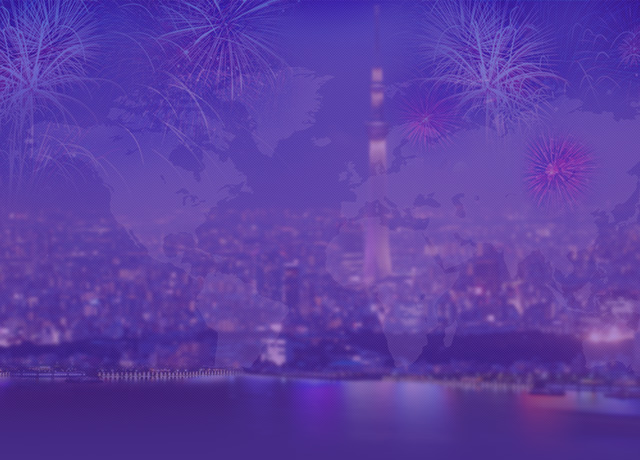
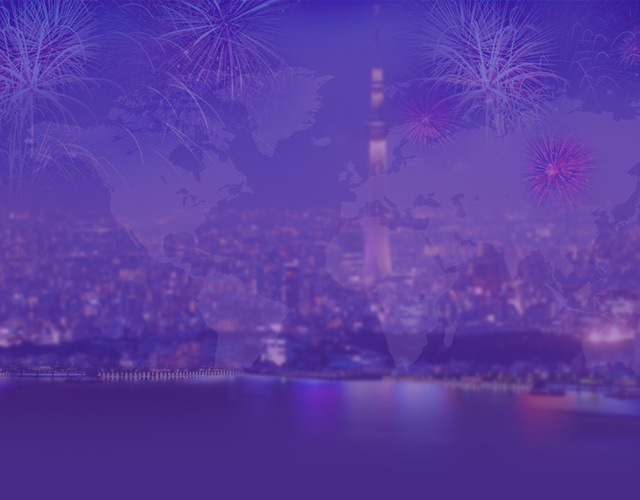
h5

diff --git a/app/static/html/japan.html b/app/static/html/japan.html
@@ -1,1 +1,1 @@
-<!DOCTYPE html><html lang="en"><head><meta charset="UTF-8"><meta content="target-densitydpi=device-dpi,width=640" name="viewport"><script type="text/javascript" src="../js/mobile-util.js"></script><title>日本馆</title><link rel="stylesheet" href="../css/common.css"><link rel="stylesheet" href="../css/japan.css"></head><body><header><h1>全球免税海外购</h1><h2>让你不出国门享受国外当地价8折</h2><h3>全球正品 值得信赖</h3></header><section class="mjapan-wp"><!-- 馆列表 --><ul class="mjapan-list clearfix"><li class="open"><img src="../img/japan/open-01.jpg"><div class="mjapan-mask"><h2>日本馆</h2><p>8月8日开业盛典</p></div></li><li><img src="../img/japan/open-02.jpg"><div class="mjapan-mask"><h2>澳新馆</h2><p>敬请期待</p></div></li><li><img src="../img/japan/open-03.jpg"><div class="mjapan-mask"><h2>意大利馆</h2><p>敬请期待</p></div></li></ul><!-- 馆列表 --><!-- 视频列表 --><ul class="mjapan-video-list"><li style="display:block;"><img src="../img/japan/video-demo.jpg" /><div class="mjapan-mask"><a class="japan-video-list-play"><i>播放</i><br/>查看视频</a></div><div class="mjapan-video-box"><!-- 这里放视频 --></div></li><li><img src="../img/japan/video-demo.jpg" /><div class="mjapan-mask"><a class="japan-video-list-play"><i>播放</i><br/>查看视频</a></div><div class="mjapan-video-box"><!-- 这里放视频 --></div></li><li><img src="../img/japan/video-demo.jpg" /><div class="mjapan-mask"><a class="japan-video-list-play"><i>播放</i><br/>查看视频</a></div><div class="mjapan-video-box"><!-- 这里放视频 --></div></li><li><img src="../img/japan/video-demo.jpg" /><div class="mjapan-mask"><a class="japan-video-list-play"><i>播放</i><br/>查看视频</a></div><div class="mjapan-video-box"><!-- 这里放视频 --></div></li></ul><div class="mjapan-video-pic"><a href="" class="mjapan-before">向前</a><div class="mjapan-video-pic-list"><ul class="clearfix"><li class="active"><img src="../img/japan/video-pic-demo.jpg"></li><li><img src="../img/japan/video-pic-demo.jpg"></li><li><img src="../img/japan/video-pic-demo.jpg"></li><li><img src="../img/japan/video-pic-demo.jpg"></li><li><img src="../img/japan/video-pic-demo.jpg"></li></ul></div><a href="" class="mjapan-after">向后</a></div><!-- 视频列表 --><!-- 日本馆简介 --><div class="mjapan-intro-text"><div class="mjapan-intro-text-inner"><div class="mjapan-intro-text-title"><h2>顺丰海淘携手日本领事馆</h2><p>SFHT&Japanese Consulate</p></div><div class="mjapan-intro-text-ct"><p>为你带来日本国宝级的必买商品</p><p class="bg">正品授权，海外自采</p><p>原生态直邮免税</p></div><span class="mjapan-flag"></span></div></div><!-- 日本馆简介 --><img src="../img/japan/banner02.jpg" class="banner02"><!-- 单品推荐 --><div class="mjapan-goods-box"><h2 class="title"><span class="text-icon">日本国宝级 单品推荐</span></h2><ul class="mjapan-goods-list clearfix"><li><img src="../img/japan/demo.jpg" alt="" width="204" height="284" /><div class="mjapan-goods-item"><div class="mjapan-goods-item-title">	<h2>液体防水创可贴</h2><h3 class="pink">日本人都在使用 非常好用</h3></div><p class="item">小林制药SEKAM CARE 液体创可贴止血绊创膏保护膜</p><div class="mjapan-price">促销价<span class="pink"><em>&yen;</em>59</span><del>参考价：140元</del></div><button class="mjapan-button">立即抢购</button></div></li><li><img src="../img/japan/demo.jpg" alt="" width="204" height="284" /><div class="mjapan-goods-item"><div class="mjapan-goods-item-title">	<h2>液体防水创可贴</h2><h3 class="pink">日本人都在使用 非常好用</h3></div><p class="item">小林制药SEKAM CARE 液体创可贴止血绊创膏保护膜</p><div class="mjapan-price">促销价<span class="pink"><em>&yen;</em>59</span><del>参考价：140元</del></div><button class="mjapan-button">立即抢购</button></div></li><li><img src="../img/japan/demo.jpg" alt="" width="204" height="284" /><div class="mjapan-goods-item"><div class="mjapan-goods-item-title">	<h2>液体防水创可贴</h2><h3 class="pink">日本人都在使用 非常好用</h3></div><p class="item">小林制药SEKAM CARE 液体创可贴止血绊创膏保护膜</p><div class="mjapan-price">促销价<span class="pink"><em>&yen;</em>59</span><del>参考价：140元</del></div><button class="mjapan-button">立即抢购</button></div></li><li><img src="../img/japan/demo.jpg" alt="" width="204" height="284" /><div class="mjapan-goods-item"><div class="mjapan-goods-item-title">	<h2>液体防水创可贴</h2><h3 class="pink">日本人都在使用 非常好用</h3></div><p class="item">小林制药SEKAM CARE 液体创可贴止血绊创膏保护膜</p><div class="mjapan-price">促销价<span class="pink"><em>&yen;</em>59</span><del>参考价：140元</del></div><button class="mjapan-button">立即抢购</button></div></li></ul></div><!-- 单品推荐 --><!-- 活动规则 --><div class="mjapan-active-rule"><h2><span>活动规则</span></h2><ol class="japan-active-rule-list"><li><span class="num">1.</span>【活动时间】2015-8-5 10:00:00 - 2015-8-31 23:59:59</li><li><span class="num">2.</span>99元减30元（不封顶），是指订单金额满99元购物车会立即减30元，并且根据订单金额可以累计立减。</li><li><span class="num">3.</span>满300送3000，是指一个账户一次购物订单支付满300元，可以返3000积分，订单配送成功客户确认收货后，系统自动会把3000积分返到你的账户中，100积分=1元，3000积分相当于30元，不可以兑现，可以直接购物抵用。</li><li><span class="num">4.</span>积分的使用详细说明请到在账户的个人中心中查看</li><li><span class="num">5.</span>折扣商品数量有限先到先得；</li><li><span class="num">6.</span>顺丰海淘可在法律法规允许范围内对本次活动规则进行解释。</li></ol></div><!-- 活动规则 --></section></body></html>
+<!DOCTYPE html><html lang="en"><head><meta charset="UTF-8"><meta content="target-densitydpi=device-dpi,width=640" name="viewport"><script type="text/javascript" src="../js/mobile-util.js"></script><title>日本馆</title><link rel="stylesheet" href="../css/common.css"><link rel="stylesheet" href="../css/japan.css"></head><body><header><h1>全球免税海外购</h1><h2>让你不出国门享受国外当地价8折</h2><h3>全球正品 值得信赖</h3></header><section class="mjapan-wp"><!-- 馆列表 --><ul class="mjapan-list clearfix"><li class="open"><img src="../img/japan/open-01.jpg"><div class="mjapan-mask"><h2>日本馆</h2><p>8月8日开业盛典</p></div></li><li><img src="../img/japan/open-02.jpg"><div class="mjapan-mask"><h2>澳新馆</h2><p>敬请期待</p></div></li><li><img src="../img/japan/open-03.jpg"><div class="mjapan-mask"><h2>意大利馆</h2><p>敬请期待</p></div></li></ul><!-- 馆列表 --><!-- 视频列表 --><ul class="mjapan-video-list"><li style="display:block;"><img src="../img/japan/video-demo.jpg" /><div class="mjapan-mask"><a class="japan-video-list-play"><i>播放</i><br/>查看视频</a></div><div class="mjapan-video-box"><!-- 这里放视频 --></div></li><li><img src="../img/japan/video-demo.jpg" /><div class="mjapan-mask"><a class="japan-video-list-play"><i>播放</i><br/>查看视频</a></div><div class="mjapan-video-box"><!-- 这里放视频 --></div></li><li><img src="../img/japan/video-demo.jpg" /><div class="mjapan-mask"><a class="japan-video-list-play"><i>播放</i><br/>查看视频</a></div><div class="mjapan-video-box"><!-- 这里放视频 --></div></li><li><img src="../img/japan/video-demo.jpg" /><div class="mjapan-mask"><a class="japan-video-list-play"><i>播放</i><br/>查看视频</a></div><div class="mjapan-video-box"><!-- 这里放视频 --></div></li></ul><div class="mjapan-video-pic"><a href="" class="mjapan-before">向前</a><div class="mjapan-video-pic-list"><ul class="clearfix"><li class="active"><img src="../img/japan/video-pic-demo.jpg"></li><li><img src="../img/japan/video-pic-demo.jpg"></li><li><img src="../img/japan/video-pic-demo.jpg"></li><li><img src="../img/japan/video-pic-demo.jpg"></li><li><img src="../img/japan/video-pic-demo.jpg"></li></ul></div><a href="" class="mjapan-after">向后</a></div><!-- 视频列表 --><!-- 日本馆简介 --><div class="mjapan-intro-text"><div class="mjapan-intro-text-inner"><div class="mjapan-intro-text-title"><h2>顺丰海淘携手日本领事馆</h2><p>SFHT&Japanese Consulate</p></div><div class="mjapan-intro-text-ct"><p>为你带来日本国宝级的必买商品</p><p class="bg">正品授权，海外自采</p><p>原生态直邮免税</p></div><span class="mjapan-flag"></span></div></div><!-- 日本馆简介 --><img src="../img/japan/banner02.jpg" class="banner02"><!-- 单品推荐 --><div class="japan-goods-box"><h2 class="title"><span class="text-icon">日本国宝级 单品推荐</span></h2><ul class="japan-goods-list clearfix"><li><img src="../img/japan/demo.jpg" alt="" width="204" height="284" /><div class="japan-goods-item"><div class="japan-goods-item-title">	<h2>液体防水创可贴</h2><h3 class="pink">日本人都在使用 非常好用</h3></div><p class="item">小林制药SEKAM CARE 液体创可贴止血绊创膏保护膜</p><div class="japan-price">促销价<span class="pink"><em>&yen;</em>59</span><del>参考价：140元</del></div><button class="japan-button">立即抢购</button></div></li><li><img src="../img/japan/demo.jpg" alt="" width="204" height="284" /><div class="japan-goods-item"><div class="japan-goods-item-title">	<h2>液体防水创可贴</h2><h3 class="pink">日本人都在使用 非常好用</h3></div><p class="item">小林制药SEKAM CARE 液体创可贴止血绊创膏保护膜</p><div class="japan-price">促销价<span class="pink"><em>&yen;</em>59</span><del>参考价：140元</del></div><button class="japan-button">立即抢购</button></div></li><li><img src="../img/japan/demo.jpg" alt="" width="204" height="284" /><div class="japan-goods-item"><div class="japan-goods-item-title">	<h2>液体防水创可贴</h2><h3 class="pink">日本人都在使用 非常好用</h3></div><p class="item">小林制药SEKAM CARE 液体创可贴止血绊创膏保护膜</p><div class="japan-price">促销价<span class="pink"><em>&yen;</em>59</span><del>参考价：140元</del></div><button class="japan-button">立即抢购</button></div></li><li><img src="../img/japan/demo.jpg" alt="" width="204" height="284" /><div class="japan-goods-item"><div class="japan-goods-item-title">	<h2>液体防水创可贴</h2><h3 class="pink">日本人都在使用 非常好用</h3></div><p class="item">小林制药SEKAM CARE 液体创可贴止血绊创膏保护膜</p><div class="japan-price">促销价<span class="pink"><em>&yen;</em>59</span><del>参考价：140元</del></div><button class="japan-button">立即抢购</button></div></li></ul></div><!-- 单品推荐 --><!-- 活动规则 --><div class="mjapan-active-rule"><h2><span>活动规则</span></h2><ol class="mjapan-active-rule-list"><li><span class="num">1.</span>【活动时间】2015-8-5 10:00:00 - 2015-8-31 23:59:59</li><li><span class="num">2.</span>99元减30元（不封顶），是指订单金额满99元购物车会立即减30元，并且根据订单金额可以累计立减。</li><li><span class="num">3.</span>满300送3000，是指一个账户一次购物订单支付满300元，可以返3000积分，订单配送成功客户确认收货后，系统自动会把3000积分返到你的账户中，100积分=1元，3000积分相当于30元，不可以兑现，可以直接购物抵用。</li><li><span class="num">4.</span>积分的使用详细说明请到在账户的个人中心中查看</li><li><span class="num">5.</span>折扣商品数量有限先到先得；</li><li><span class="num">6.</span>顺丰海淘可在法律法规允许范围内对本次活动规则进行解释。</li></ol></div><!-- 活动规则 --></section></body></html>

diff --git a/app/static/css/japan.css b/app/static/css/japan.css
@@ -1,7 +1,6 @@
 body {
   width: 640px;
-  background: #4f0991 url(../img/japan/body-bg.jpg) center 0 no-repeat;
-  background-size: 640px 460px;
+  background: #462c88 url(../img/japan/body-bg.jpg) center 0 no-repeat;
 }
 
 img {
@@ -50,6 +49,7 @@ header h3 {
 }
 
 .mjapan-list li {
+  width: 193px;
   position: relative;
   margin-left: 10px;
 }
@@ -145,7 +145,9 @@ header h3 {
 .mjapan-video-pic .mjapan-after::after {
   position: absolute;
   top: 50%;
-  margin-top: -3px;
+  -webkit-transform: translate(0, -50%);
+      -ms-transform: translate(0, -50%);
+          transform: translate(0, -50%);
   content: "";
   border: 8px dashed transparent;
 }
@@ -180,6 +182,7 @@ header h3 {
 .mjapan-video-pic-list li {
   float: left;
   position: relative;
+  width: 137px;
   margin-left: 4px;
 }
 
@@ -264,4 +267,147 @@ header h3 {
 
 .banner02 {
   margin-top: 20px;
+}
+
+.japan-goods-box {
+  background-color: #6c67dd;
+  padding: 53px 30px 20px;
+  margin-top: 20px;
+}
+
+.japan-goods-box li {
+  display: -webkit-box;
+  display: -webkit-flex;
+  display: -ms-flexbox;
+  display: flex;
+  background-color: #fff;
+}
+
+.japan-goods-box img {
+  margin-left: 29px;
+  margin-right: 22px;
+  width: 204px;
+}
+
+.japan-goods-box button {
+  background-color: #510492;
+  color: #fff;
+  height: 30px;
+  line-height: 30px;
+  padding: 0 18px;
+  font-size: 20px;
+  border: 0 none;
+}
+
+.pink {
+  color: #fc478b;
+}
+
+.japan-goods-item-title {
+  padding-bottom: 6px;
+  line-height: 1.2;
+  border-bottom: 1px solid #171717;
+  padding-top: 30px;
+}
+
+.japan-goods-item-title h2 {
+  font-size: 30px;
+  font-weight: 700;
+  color: #23201a;
+  max-height: 36px;
+  overflow: hidden;
+}
+
+.japan-goods-item-title h3 {
+  max-height: 28px;
+  overflow: hidden;
+  font-size: 24px;
+}
+
+.japan-goods-box .title {
+  text-align: center;
+  border-top: 1px solid #fff;
+  margin-bottom: -3px;
+}
+
+.japan-goods-box .text-icon {
+  position: relative;
+  top: -38px;
+  padding: 0 20px;
+  display: inline-block;
+  background: #6d6bd9 url(../img/japan/goods.png) center center no-repeat;
+  width: 409px;
+  height: 40px;
+  font: 0/0 a;
+}
+
+.japan-goods-item .item {
+  margin-top: 7px;
+  font-size: 18px;
+  color: #23201a;
+  line-height: 1.2;
+  opacity: 0.8;
+  max-height: 42px;
+  overflow: hidden;
+}
+
+.japan-goods-list li {
+  padding-right: 34px;
+  margin-bottom: 10px;
+}
+
+.japan-goods-item .japan-price {
+  font-size: 22px;
+  line-height: 1.2;
+  margin-top: 27px;
+}
+
+.japan-goods-item .japan-price .pink {
+  font-size: 38px;
+}
+
+.japan-goods-item .japan-price .pink em {
+  padding: 0 3px;
+  font-size: 26px;
+}
+
+.japan-goods-item .japan-price del {
+  font-size: 16px;
+  color: #727272;
+}
+
+.mjapan-active-rule {
+  margin: 42px 30px 0;
+  color: #fff;
+  font-size: 22px;
+}
+
+.mjapan-active-rule h2 {
+  text-align: center;
+  border-bottom: 1px solid #fff;
+}
+
+.mjapan-active-rule h2 span {
+  position: relative;
+  top: 20px;
+  display: inline-block;
+  background-color: #462c88;
+  padding: 0 30px;
+  font-size: 42px;
+}
+
+.mjapan-active-rule-list {
+  margin-top: 38px;
+  line-height: 1.5;
+  padding: 0 10px;
+}
+
+.mjapan-active-rule-list .num {
+  display: inline-block;
+  width: 25px;
+  margin-left: -25px;
+}
+
+.mjapan-active-rule-list li {
+  padding-left: 25px;
 }

diff --git a/app/static/scss/japan.scss b/app/static/scss/japan.scss
@@ -1,8 +1,7 @@
 @import 'utils/variables';
 body{
 	width: 640px;
-	background: #4f0991 url(../img/japan/body-bg.jpg) center 0 no-repeat;
-	background-size: 640px 460px;
+	background: #462c88 url(../img/japan/body-bg.jpg) center 0 no-repeat;
 }
 img{
 	width: 100%;
@@ -38,6 +37,7 @@ header h3{
 	padding: 10px 0;
 	background: rgba(0,0,0,.3);
 	li{
+		width: 193px;
 		position: relative;
 		margin-left: 10px;
 	}
@@ -118,7 +118,7 @@ header h3{
 	.mjapan-after::after{
 		position: absolute;
 		top: 50%;
-		margin-top: -3px;
+		transform: translate(0,-50%);
 		content: "";
 		border: 8px dashed transparent;
 	}
@@ -148,6 +148,7 @@ header h3{
 	li{
 		float: left;
 		position: relative;
+		width: 137px;
 		margin-left: 4px;
 		&::after{
 			content: "";
@@ -219,4 +220,122 @@ header h3{
 }
 .banner02{
 	margin-top: 20px;
+}
+.japan-goods-box{
+	background-color: #6c67dd;
+	padding: 53px 30px 20px;
+	margin-top: 20px;
+	li{
+		display: flex;
+		background-color: #fff;
+	}
+	img{
+		margin-left: 29px;
+		margin-right: 22px;
+		width: 204px;
+	}
+	button{
+		background-color: #510492;
+		color: #fff;
+		height: 30px;
+		line-height: 30px;
+		padding: 0 18px;
+		font-size: 20px;
+		border: 0 none;
+	}
+}
+.pink{
+	color: #fc478b;
+}
+.japan-goods-item-title{
+	padding-bottom: 6px;
+	line-height: 1.2;
+	border-bottom: 1px solid #171717;
+	padding-top: 30px;
+	h2{
+		font-size:30px;
+		font-weight: 700;
+		color: #23201a;
+		max-height: 36px;
+		overflow: hidden;
+	}
+	h3{
+		max-height: 28px;
+		overflow: hidden;
+		font-size: 24px;
+	}
+}
+.japan-goods-box .title{
+	text-align: center;
+	border-top: 1px solid #fff;
+	margin-bottom: -3px;
+}
+.japan-goods-box .text-icon{
+	position: relative;
+	top: -38px;
+	padding: 0 20px;
+	display: inline-block;
+	background: #6d6bd9 url(../img/japan/goods.png) center center no-repeat;
+	width: 409px;
+	height: 40px;
+	font: 0/0 a;
+}
+.japan-goods-item .item{
+	margin-top: 7px;
+	font-size: 18px;
+	color: #23201a;
+	line-height: 1.2;
+	opacity: 0.8;
+	max-height: 42px;
+	overflow: hidden;
+}
+.japan-goods-list li{
+	padding-right: 34px;
+	margin-bottom: 10px;
+}
+.japan-goods-item .japan-price{
+	font-size: 22px;
+	line-height: 1.2;
+	margin-top: 27px;
+	.pink{
+			font-size: 38px;
+		em{
+			padding: 0 3px;
+			font-size: 26px;
+		}
+	}
+	del{
+		font-size: 16px;
+		color: #727272;
+	}
+}
+.mjapan-active-rule{
+	margin: 42px 30px 0;
+	color: #fff;
+	font-size: 22px;
+}
+.mjapan-active-rule h2{
+	text-align: center;
+	border-bottom: 1px solid #fff;
+}
+.mjapan-active-rule h2 span{
+	position: relative;
+	top: 20px;
+	display: inline-block;
+	background-color: #462c88;
+	padding: 0 30px;
+	font-size: 42px;
+}
+.mjapan-active-rule-list{
+	margin-top: 38px;
+	line-height: 1.5;
+	padding: 0 10px;
+	.num{
+		display: inline-block;
+		width: 25px;
+		margin-left: -25px;
+	}
+	li{
+		padding-left: 25px;
+	}
 }
